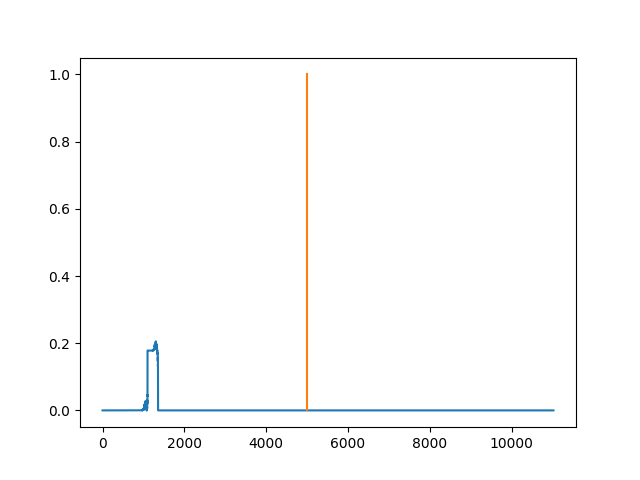
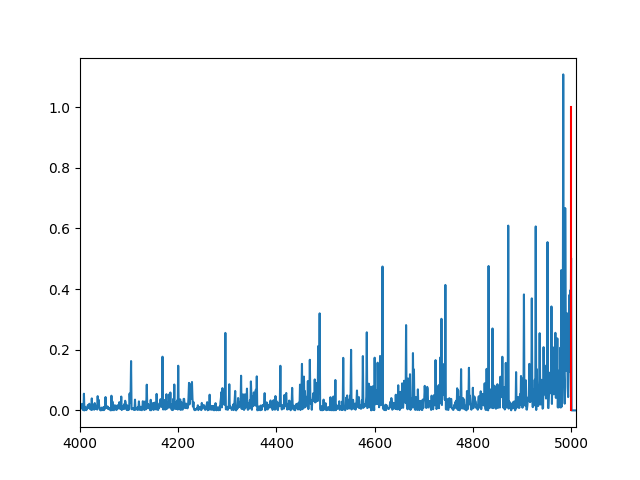
fix reception bug

diff --git a/WaveNet/audio_model.py b/WaveNet/audio_model.py
@@ -28,7 +28,7 @@ class DilatedCausalConv(nn.Conv1d):
     def forward(self, x):
         with torch.no_grad():
             self.weight.mul_(self.mask)
-            print(self.weight)
+            # print(self.weight)
         return super().forward(x)
 
 class ResidualBlock(nn.Module):
@@ -68,8 +68,8 @@ class WaveNet(nn.Module):
             raise NotImplementedError()
         # audio model
         channel = 64
-        layer_num = 1
-        layer_repeates = 1
+        layer_num = 10
+        layer_repeates = 3
         self.first = nn.ModuleDict({
             f'first_{i}':nn.Conv1d(i,channel,1) for i in range(1,max_in_channel+1)
         })
@@ -112,6 +112,7 @@ class WaveNet(nn.Module):
 
     def forward(self,audio,tokens=None):
         channel = audio.shape[1]
+        size = audio.shape[2]
         if self.text_to_audio:
             raise NotImplementedError()
         audio = self.first[f'first_{channel}'](audio)
@@ -122,7 +123,7 @@ class WaveNet(nn.Module):
         outs = torch.cat(outs,dim=1) # skip connection; [batch, num_layers * layer_repeats * channel, audio_leng]
         outs = self.mlp(outs) # [batch, channels, size]
         outs = self.project_head[f'project_head_{channel}'](outs) # [batch, num_classes * in_channels, size]
-        return outs.reshape(outs.shape[0],channel,-1,self.output_dim) # [batch, in_channels, size, num_classes]
+        return outs.reshape(outs.shape[0],channel,self.output_dim,size).transpose(-1,-2) # [batch, in_channels, size, num_classes]
     
     def get_loss(self,audio,tokens=None):
         outs = self(tokens=tokens,audio=audio)

diff --git a/WaveNet/train.py b/WaveNet/train.py
@@ -49,20 +49,22 @@ def visualize_receptive_field(model:WaveNet):
     foo = torch.zeros(1,2,11025).to(device)
     foo.requires_grad_(True)
 
-    conv = DilatedCausalConv(2,2,11,padding=5,dilation=1).to(device)
+    # conv = DilatedCausalConv(2,2,11,padding=5,dilation=1).to(device)
     # res = ResidualBlock(2,1).to(device)
 
     # out = res(foo)
-    out = conv(foo)
-    # out = model(audio=foo)
-    index = 1000
-    out[...,index].sum().backward()
-    # out[...,index,:].sum().backward()
+    # out = conv(foo)
+    out = model(audio=foo)
+    index = 5000
+    # out[...,index].sum().backward()
+    out[...,index,:].sum().backward()
     y = foo.grad[0,0].abs().cpu().numpy()
+    # plot y as histogram
+    # plt.bar(np.arange(y.shape[0]),y,width=0.8, align='center')
     plt.plot(y)
     # plot a straight line at index position
     plt.plot([index,index],[0,1],color='red')
-    plt.xlim(990,1010)
+    plt.xlim(index-1000,index+10)
     plt.show()
     plt.savefig(f'./receptive_field_{index}.png')
 

diff --git a/WaveNet/note.md b/WaveNet/note.md
@@ -3,3 +3,5 @@
 ## Loss doesn't change
 
 Issue: the receptive field is wrong. The casuality is also not correctly implemented.
+
+Reason: the final reshape is wrong.
